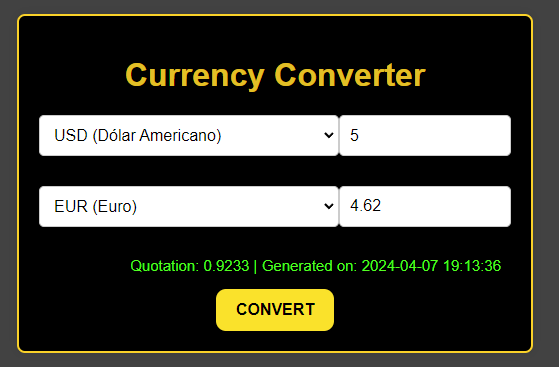
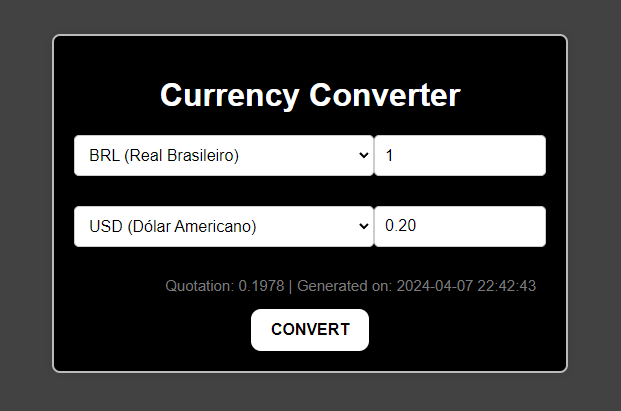
style: fix css

diff --git a/src/public/style.css b/src/public/style.css
@@ -6,7 +6,7 @@ body {
 }
 
 h1 {
-    color: rgba(255, 208, 0, 0.911);
+    color: rgb(255, 255, 255);
 }
 
 .container-central {
@@ -21,7 +21,7 @@ h1 {
     flex-direction: column;
     align-items: center;
     background-color: #000000;
-    border: 2px solid rgb(255, 208, 0); 
+    border: 2px solid rgb(187, 187, 187);
     padding: 20px;
     border-radius: 8px;
     box-shadow: 0 0 10px rgba(0, 0, 0, 0.1);
@@ -42,7 +42,7 @@ input[type='number'] {
 }
 
 .result {
-    color: rgb(43, 255, 0);
+    color: rgba(136, 136, 136, 0.897);
     font-size: 15px;
     padding: 0 10px;
     margin-bottom: 15px;
@@ -75,16 +75,16 @@ input[type='number'] {
 }
 
 button {
-    background-color: rgb(255, 225, 0);
-    padding: 12px 20px; 
-    border-radius: 10px; 
-    font-size: 16px; 
-    font-weight: bold; 
-    border: none; 
-    cursor: pointer; 
-    transition: background-color 0.3s; 
+    background-color: rgb(255, 255, 255);
+    padding: 12px 20px;
+    border-radius: 10px;
+    font-size: 16px;
+    font-weight: bold;
+    border: none;
+    cursor: pointer;
+    transition: background-color 0.3s;
 }
 
 button:hover {
-    background-color: rgb(52, 195, 50); 
+    background-color: rgb(255, 255, 255);
 }
